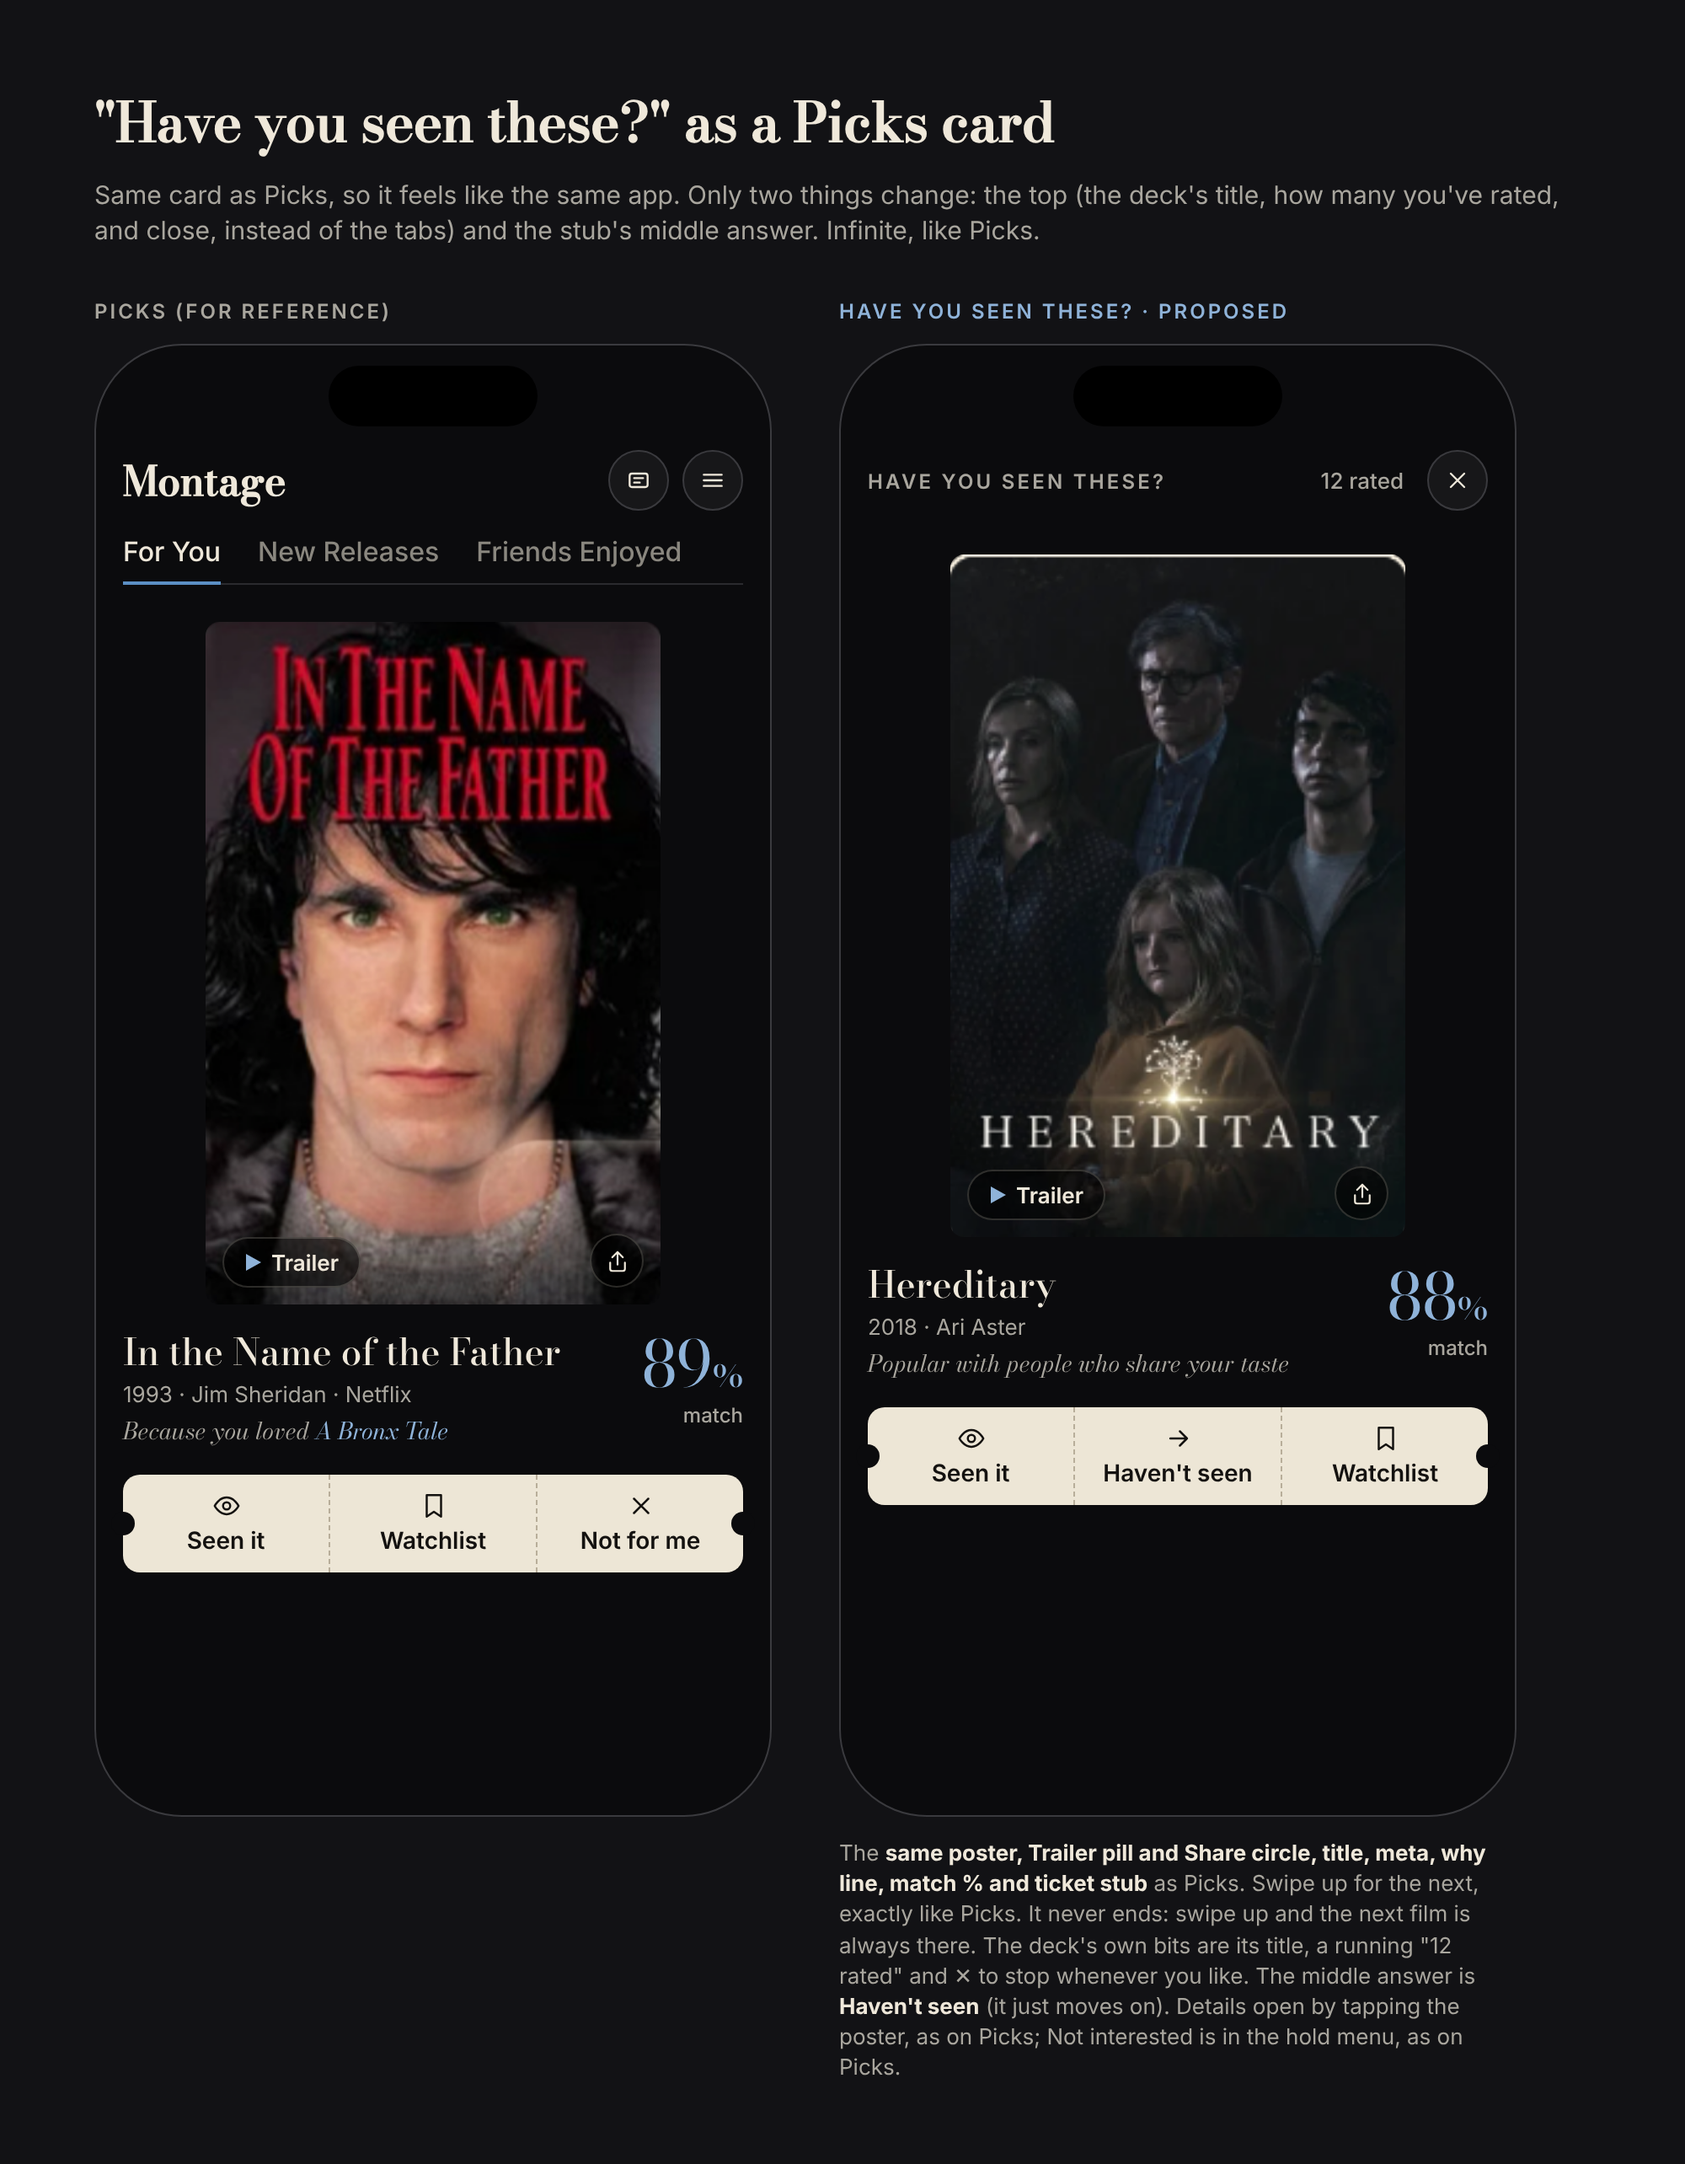
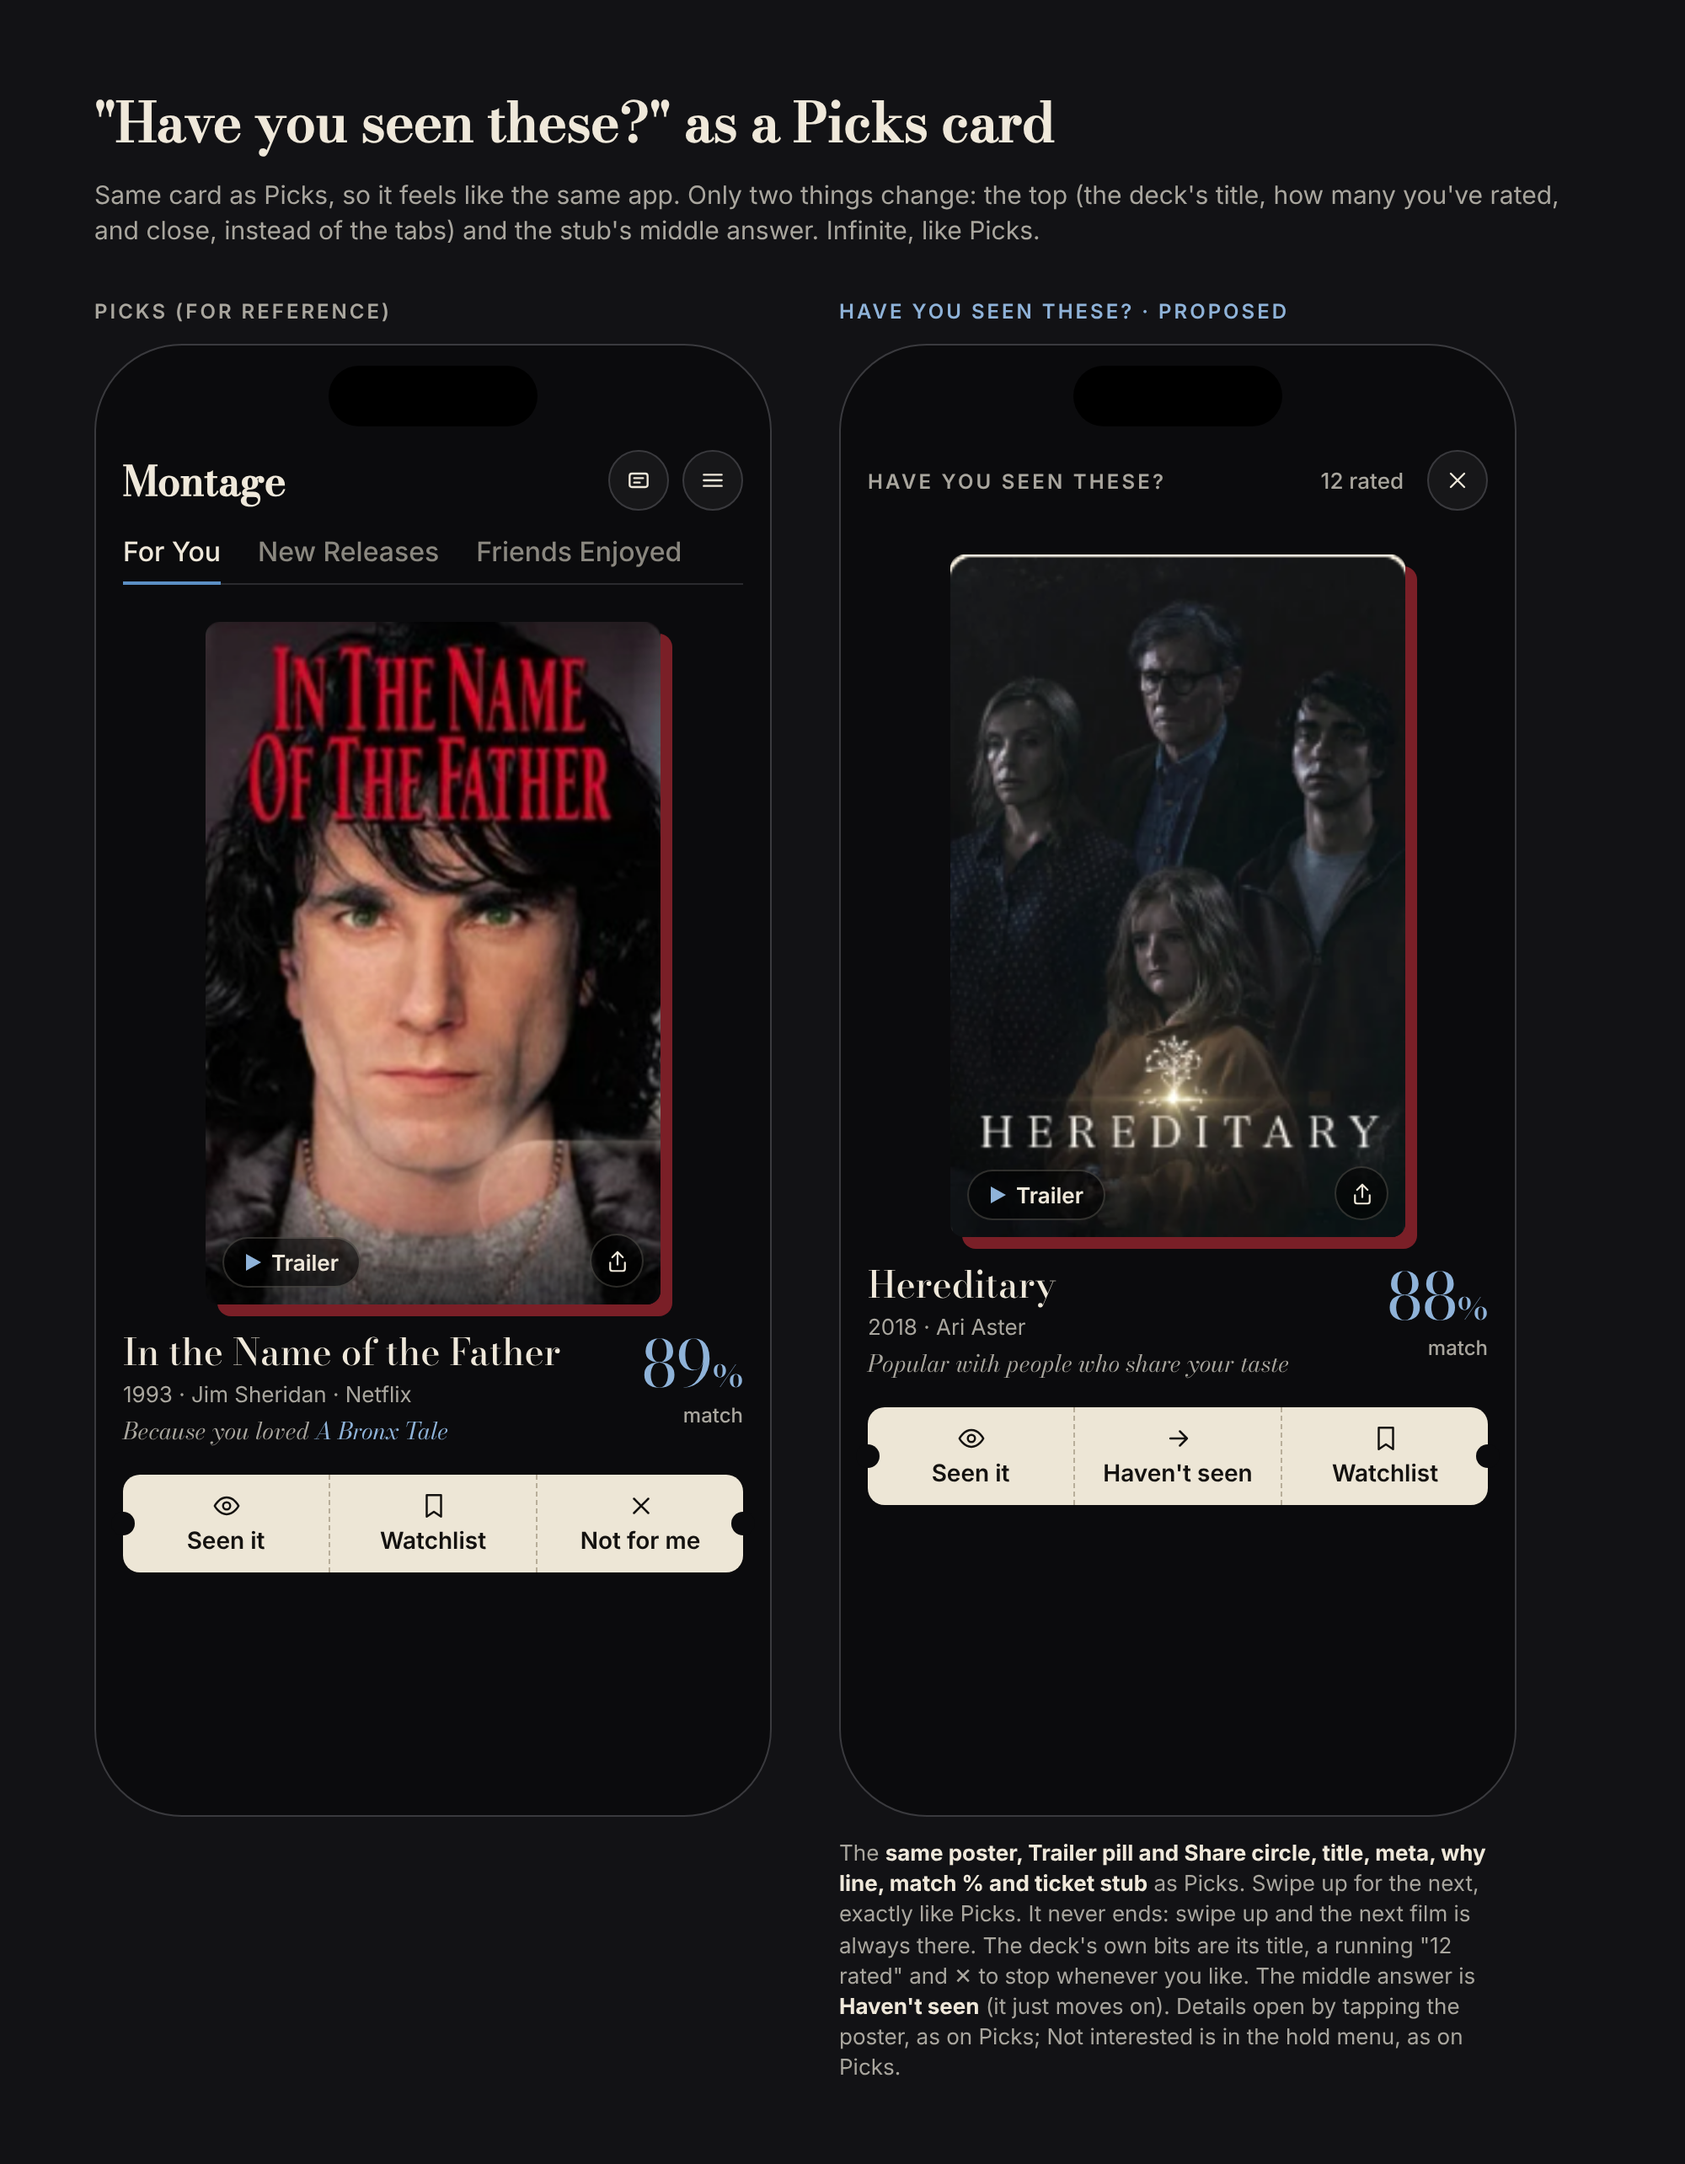
Mocks: Tonight walkthrough card mood changes the ticket; deck with red shadow
Claude-Session: https://claude.ai/code/session_013WRDCFXH8nihP92apJAVW7

Changed region(s): [[0.124, 0.2804, 0.403, 0.6231], [0.837, 0.2804, 0.868, 0.5607], [0.589, 0.5607, 0.837, 0.5919]]

diff --git a/mockups/tonight-card-v2.html b/mockups/tonight-card-v2.html
@@ -1,0 +1,42 @@
+<!doctype html><html><head><meta charset="utf-8"><title>Tonight card</title><link href="https://fonts.googleapis.com/css2?family=Bodoni+Moda:opsz,wght@6..96,400;6..96,500&family=Inter:wght@400;500;600;700;800;900&display=swap" rel="stylesheet"><style>
+:root{--bg:#0B0B0D;--panel:#141417;--panel2:#1A1A1E;--line:#2A2A2E;--line2:#3A3A3E;--ink:#EFE8DA;--muted:#A9A69E;--faint:#8A877F;--accent:#5B8FC4;--accent2:#8FB3D9;--page:#1d1d21;--cream:#ECE6DA;--ox:#7A1220}
+*{box-sizing:border-box}
+body{margin:0;background:var(--page);color:var(--ink);font:15px/1.4 Inter,system-ui,sans-serif;padding:24px}
+.row{display:flex;gap:28px;flex-wrap:wrap}.col{display:flex;flex-direction:column;gap:10px}
+.tag{font:600 12px Inter;letter-spacing:1.4px;text-transform:uppercase;color:var(--accent2)}
+.phone{width:402px;height:874px;background:var(--panel);border-radius:52px;border:1px solid var(--line2);overflow:hidden;position:relative;padding:66px 20px 26px;display:flex;flex-direction:column}
+.island{position:absolute;top:12px;left:50%;transform:translateX(-50%);width:124px;height:36px;border-radius:20px;background:#000}
+.status{position:absolute;top:18px;left:44px;right:40px;display:flex;justify-content:space-between;font:600 16px Inter}
+.dots{display:flex;gap:6px;height:20px;align-items:center}.dots i{width:6px;height:6px;border-radius:3px;background:var(--line2)}.dots i.on{width:16px;background:var(--ink)}
+.art{flex:1;min-height:0;margin:16px 0 20px;background:var(--panel2);border:1px solid var(--line);border-radius:16px;display:flex;flex-direction:column;justify-content:center;padding:22px 20px;position:relative}
+.where{font:600 12px Inter;letter-spacing:1.6px;text-transform:uppercase;color:var(--accent2)}
+.title{font:500 29px/1.08 "Bodoni Moda",serif;margin-top:8px}
+.body{font:400 18px/1.35 "Bodoni Moda",serif;color:var(--muted);margin-top:8px}
+.btns{display:flex;gap:10px;margin-top:24px}
+.btn{flex:1;height:54px;border-radius:999px;display:flex;align-items:center;justify-content:center;font:600 17px Inter;background:var(--cream);color:#141210}
+.btn.sec{background:#1E1E22;color:var(--ink);border:1px solid var(--line2)}
+.ticket{position:relative;background:var(--cream);color:#141210;border-radius:12px;padding:16px 18px;box-shadow:5px 5px 0 var(--ox)}
+.ticket b{font:700 19px Inter;display:block}.ticket span{font-size:15px;color:#5A5244}
+.caps{font:600 12px Inter;letter-spacing:1.8px;text-transform:uppercase;color:var(--muted)}
+.chips{display:flex;flex-wrap:wrap;gap:8px;margin-top:12px}
+.chip{height:44px;border-radius:999px;display:flex;align-items:center;gap:9px;padding:0 15px 0 6px;border:1px solid var(--line2);font:600 16px Inter}
+.chip.on{background:#6B93C4;border-color:#6B93C4;color:#0B0B0D}
+.lg{width:32px;height:32px;border-radius:8px;display:flex;align-items:center;justify-content:center;flex:none}
+.grid{display:grid;grid-template-columns:repeat(3,1fr);gap:10px}
+.pp{aspect-ratio:2/3;border-radius:6px;background:#222 center/cover;position:relative;box-shadow:0 6px 16px rgba(0,0,0,.45)}
+.stamp{position:absolute;left:5px;bottom:5px;background:rgba(14,16,22,.82);color:#8FB3D9;font:500 15px/1 "Bodoni Moda",serif;padding:4px 6px 3px;border-radius:4px;border:1.5px solid #8FB3D9;box-shadow:0 0 0 1px rgba(0,0,0,.6)}
+.stamp.lk{border-color:var(--line2);color:var(--muted);display:flex;gap:4px;align-items:center}
+.avoid{display:flex;justify-content:space-between;align-items:center;border-top:1px solid var(--line);margin-top:18px;padding-top:14px}
+.avoid b{display:block;font:600 15px Inter}.avoid small{color:var(--muted);font-size:13px}.avoid em{font:600 14px Inter;font-style:normal;color:var(--accent2)}
+.face{border-radius:50%;display:flex;align-items:center;justify-content:center;color:#fff;font-weight:600;border:3px solid var(--panel2)}
+.rr{display:flex;align-items:center;gap:12px;padding:8px 12px 8px 8px;border:1px solid var(--line2);border-radius:12px;margin-top:8px}
+.rr.lead{border-color:var(--accent2);background:rgba(91,143,196,.12)}
+.rr .p{width:40px;height:60px;border-radius:4px;background:#333 center/cover;flex:none}
+.rr .t{flex:1;font:500 17px "Bodoni Moda",serif}.rr .s{font:600 14px Inter;color:var(--muted)}.rr.lead .s{color:var(--accent2)}
+.ban{display:flex;gap:12px;align-items:center;background:rgba(46,46,52,.95);border-radius:18px;padding:12px 14px}
+.ban .ic{width:38px;height:38px;border-radius:9px;background:var(--bg);border:1px solid rgba(255,255,255,.12);display:flex;align-items:center;justify-content:center;font:600 18px 'Bodoni Moda',serif;flex:none}
+.ban .h{display:flex;justify-content:space-between;font:600 14px Inter}.ban .h span{opacity:.55;font-weight:400;font-size:12px}
+.ban p{margin:2px 0 0;font-size:14px;opacity:.85}
+.lkline{font-size:14px;color:var(--muted);text-align:center;margin-top:14px}.lkline b{color:var(--ink)}
+.qbtn{align-self:center;margin-top:12px;height:40px;padding:0 18px;border-radius:999px;border:1px solid var(--line2);font:600 15px Inter;display:flex;align-items:center}
+.chip.mon{background:var(--ink);color:var(--bg);border-color:var(--ink)}.chips .chip{height:40px}</style></head><body><div class="row"><div class="col"><span class="tag">No mood tapped</span><div class="phone"><div class="island"></div><div class="status"><span>8:14</span><span>●●●</span></div><div class="dots"><i class=""></i><i class="on"></i><i class=""></i><i class=""></i><i class=""></i></div><div class="art"><div class="ticket"><b>Just pick for me</b><span>A film you'll like, nothing to set</span></div><div class="caps" style="margin-top:24px">In the mood for</div><div class="chips"><span class="chip" style="padding:0 15px">Cozy</span><span class="chip" style="padding:0 15px">Feel-good</span><span class="chip" style="padding:0 15px">Funny</span><span class="chip" style="padding:0 15px">Moving</span><span class="chip" style="padding:0 15px">Tense</span><span class="chip" style="padding:0 15px">Scary</span></div><div class="caps" style="margin-top:24px">What do you watch on?</div><div class="chips"><span class="chip on"><span class="lg" style="background:#000"><b style="color:#E50914;font:900 22px Inter">N</b></span>Netflix</span><span class="chip on"><span class="lg" style="background:#fff"><b style="color:#1A98FF;font:800 9px/1 Inter;text-align:center">prime<br>video</b></span>Prime Video</span><span class="chip on"><span class="lg" style="background:#000"><b style="color:#fff;font:800 9px/1 Inter;text-align:center">HBO<br>max</b></span>HBO Max</span><span class="chip"><span class="lg" style="background:linear-gradient(160deg,#0b4a6e,#1a8a8f)"><b style="color:#fff;font:italic 700 9px Inter">Disney+</b></span>Disney+</span><span class="chip"><span class="lg" style="background:#1CE783"><b style="color:#0b2;color:#063;font:800 10px Inter">hulu</b></span>Hulu</span><span class="chip"><span class="lg" style="background:#000"><b style="color:#fff;font:700 11px Inter"> tv</b></span>Apple TV</span></div></div><div class="where">Picks · Tonight</div><div class="title">Tonight, in one tap</div><div class="body">Pick a mood and get one film you can stream now. Tap the services you have.</div><div class="btns"><div class="btn sec">Back</div><div class="btn">Next</div></div></div><p style="color:#A9A69E;font-size:13px;max-width:402px">Starts with no mood picked.</p></div><div class="col"><span class="tag">Tapped Cozy</span><div class="phone"><div class="island"></div><div class="status"><span>8:14</span><span>●●●</span></div><div class="dots"><i class=""></i><i class="on"></i><i class=""></i><i class=""></i><i class=""></i></div><div class="art"><div class="ticket"><b>Just pick for me</b><span>Something cozy you'll like</span></div><div class="caps" style="margin-top:24px">In the mood for</div><div class="chips"><span class="chip mon" style="padding:0 15px">Cozy</span><span class="chip" style="padding:0 15px">Feel-good</span><span class="chip" style="padding:0 15px">Funny</span><span class="chip" style="padding:0 15px">Moving</span><span class="chip" style="padding:0 15px">Tense</span><span class="chip" style="padding:0 15px">Scary</span></div><div class="caps" style="margin-top:24px">What do you watch on?</div><div class="chips"><span class="chip on"><span class="lg" style="background:#000"><b style="color:#E50914;font:900 22px Inter">N</b></span>Netflix</span><span class="chip on"><span class="lg" style="background:#fff"><b style="color:#1A98FF;font:800 9px/1 Inter;text-align:center">prime<br>video</b></span>Prime Video</span><span class="chip on"><span class="lg" style="background:#000"><b style="color:#fff;font:800 9px/1 Inter;text-align:center">HBO<br>max</b></span>HBO Max</span><span class="chip"><span class="lg" style="background:linear-gradient(160deg,#0b4a6e,#1a8a8f)"><b style="color:#fff;font:italic 700 9px Inter">Disney+</b></span>Disney+</span><span class="chip"><span class="lg" style="background:#1CE783"><b style="color:#0b2;color:#063;font:800 10px Inter">hulu</b></span>Hulu</span><span class="chip"><span class="lg" style="background:#000"><b style="color:#fff;font:700 11px Inter"> tv</b></span>Apple TV</span></div></div><div class="where">Picks · Tonight</div><div class="title">Tonight, in one tap</div><div class="body">Pick a mood and get one film you can stream now. Tap the services you have.</div><div class="btns"><div class="btn sec">Back</div><div class="btn">Next</div></div></div><p style="color:#A9A69E;font-size:13px;max-width:402px">The ticket's line changes, so the mood visibly does something. No More services link.</p></div></div></body></html>

diff --git a/mockups/seen-deck-picks.html b/mockups/seen-deck-picks.html
@@ -13,7 +13,7 @@ h1{font:600 32px 'Bodoni Moda'}.lede{color:#A9A69E;margin-top:8px;max-width:1100
 .tabs{display:flex;gap:22px;margin-top:10px;font:500 16px Inter;color:#8A877F;border-bottom:1px solid #2A2A2E;padding-bottom:9px}.tabs b{color:#EFE8DA;font-weight:500;position:relative}.tabs b:after{content:"";position:absolute;left:0;right:0;bottom:-10px;height:2px;background:#5B8FC4}
 .dk{display:flex;align-items:center;gap:10px;height:44px}.dk .caps{font:600 12px Inter;letter-spacing:1.6px;text-transform:uppercase;color:#A9A69E;flex:1}
 .prog{display:flex;gap:3px;margin-top:6px}.prog i{flex:1;height:3px;border-radius:2px;background:#2A2A2E}.prog i.d{background:#EFE8DA}
-.po{width:270px;height:405px;margin:22px auto 0;border-radius:8px;background:center/cover;position:relative}
+.po{width:270px;height:405px;margin:22px auto 0;border-radius:8px;background:center/cover;position:relative;box-shadow:7px 7px 0 #7A1F27}
 .pill{position:absolute;left:10px;bottom:10px;height:30px;padding:0 12px;border-radius:999px;background:rgba(0,0,0,.55);border:1px solid rgba(239,232,218,.18);display:flex;align-items:center;gap:6px;font:600 13px Inter}
 .pill svg{width:10px;height:10px;fill:#8FB3D9}
 .circ{position:absolute;right:10px;bottom:10px;width:32px;height:32px;border-radius:50%;background:rgba(0,0,0,.55);border:1px solid rgba(239,232,218,.18);display:flex;align-items:center;justify-content:center}
